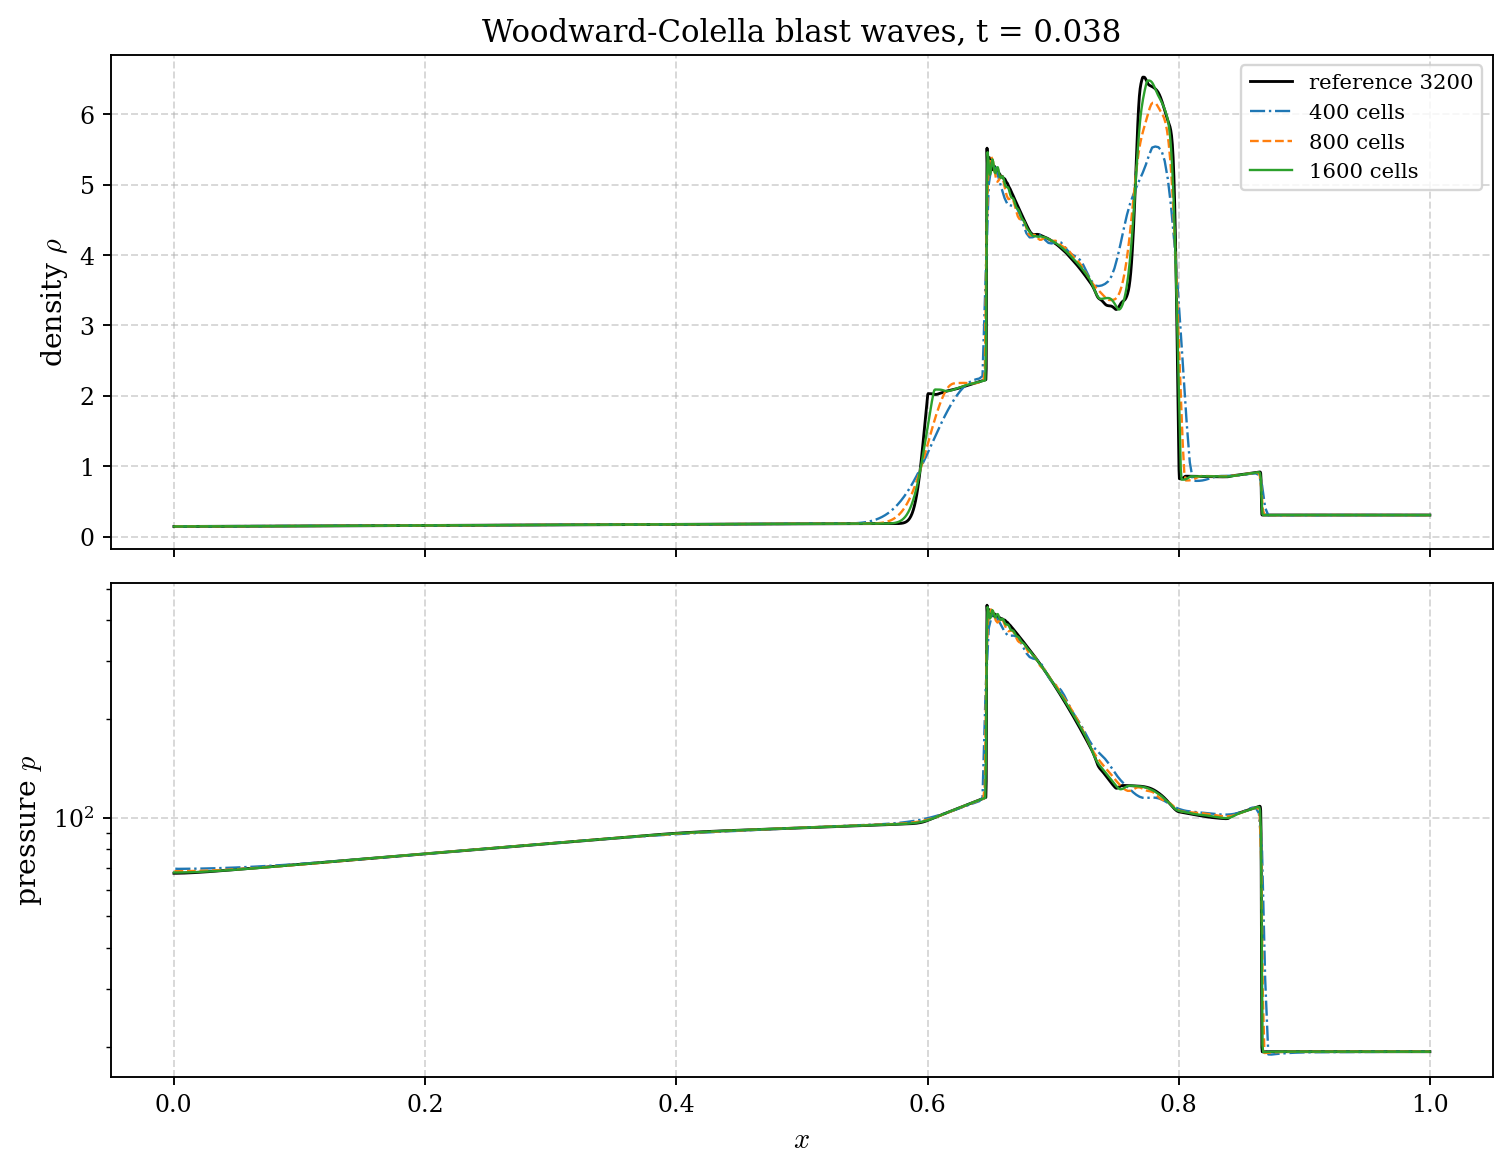
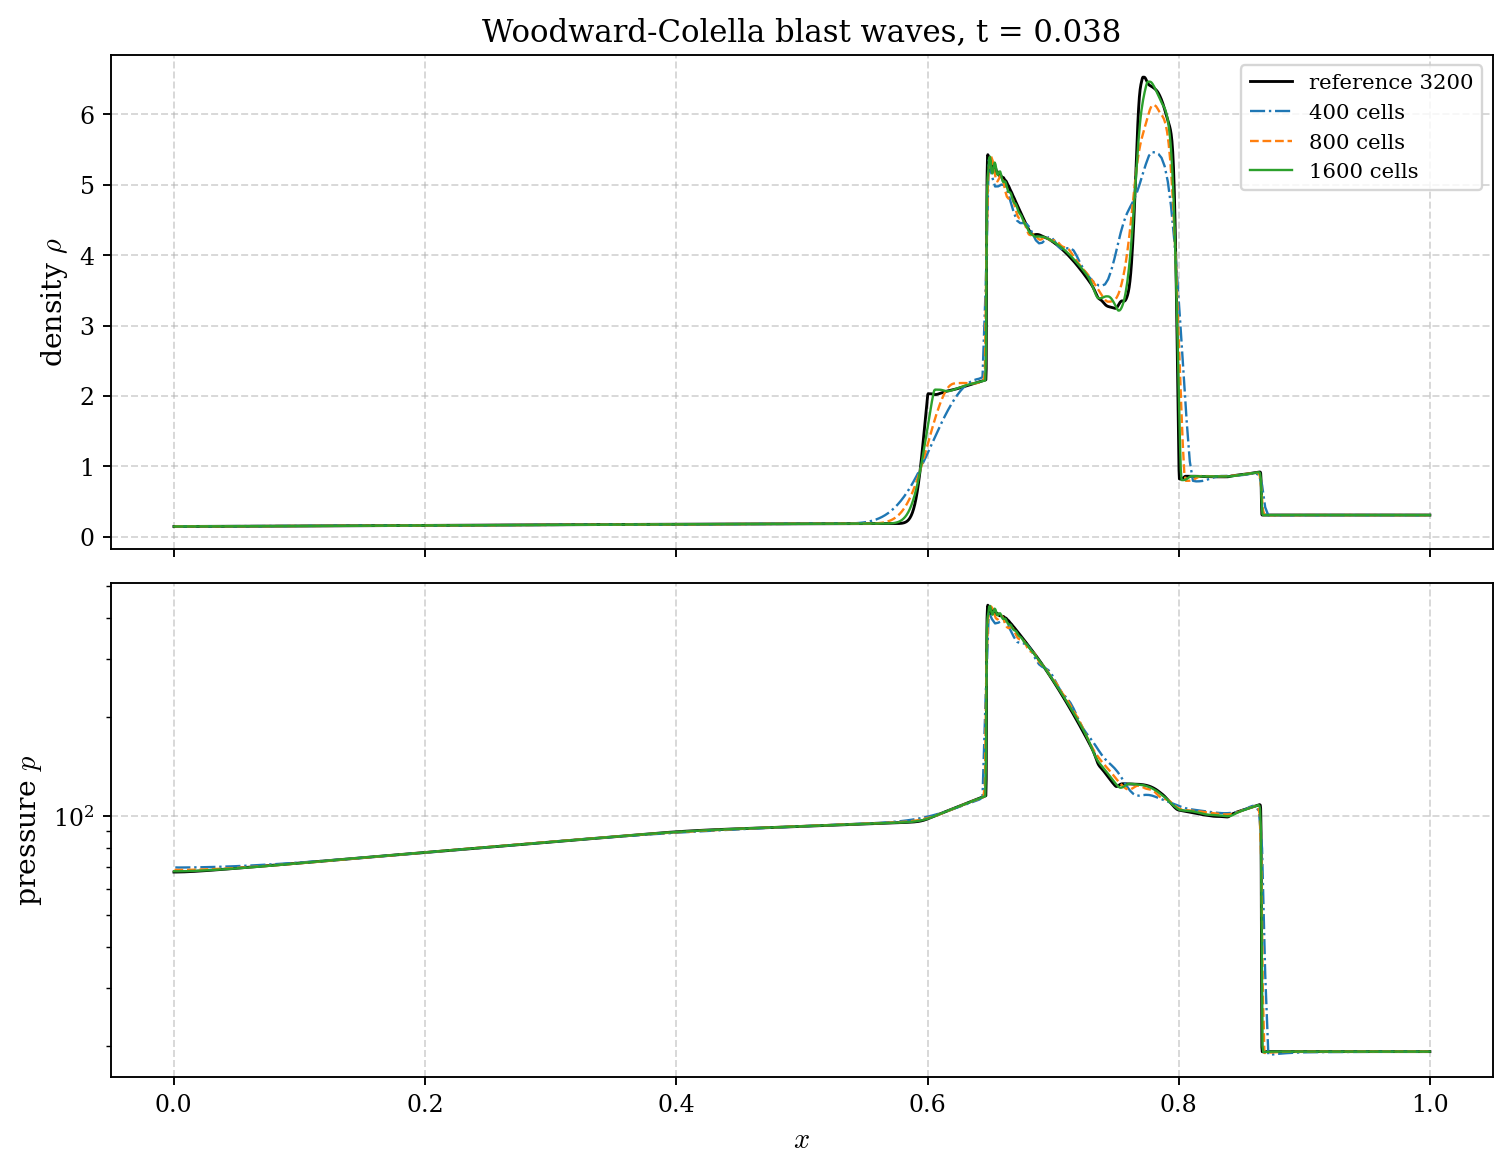
Blast waves page: numbers and figure from the run with shock_blend 0.2 (the default since 53a4f06) [skip ci]
L1 9.9e-2, 4.6e-2, 1.8e-2 (rates 1.1, 1.3); peak position 0.0070, 0.0077, 0.0048; the quantisation of the peak position stated.

diff --git a/docs/source/cases/blast-waves.md b/docs/source/cases/blast-waves.md
@@ -23,16 +23,18 @@ python cases\validation\verification\blast_waves.py      # 400, 800, 1600 cells 
 
 The bands are fixed in the script before the first run: mass and energy conserved to a relative $10^{-11}$ (walls on every
 side), $\rho, p > 0$, the L1 density difference to the reference decreasing with an observed rate of at least 0.4, and the
-position of the density maximum within 0.02 of the reference's and not moving away with refinement.
+position of the density maximum within 0.02 of the reference's and not moving away with refinement by more than a cell of
+the finer grid.
 
 <figure>
 <img src="{{root}}img/blast_waves.png" style="width:100%">
 <figcaption>Density and pressure at t = 0.038 on 400, 800 and 1600 cells and the 3200-cell reference. Conservation errors
-are 2-5e-16; the L1 density differences to the reference are 9.6e-2, 4.5e-2 and 1.8e-2 (observed rates 1.1 and 1.3).</figcaption>
+are 2-6e-16; the L1 density differences to the reference are 9.9e-2, 4.6e-2 and 1.8e-2 (observed rates 1.1 and 1.3).</figcaption>
 </figure>
 
-The density maximum is a spike of one or two cells: its position converges in physical distance (0.0095, 0.0077, 0.0036 from
-400 to 1600 cells), not in a fixed number of cells.
+The density maximum is a spike of one or two cells: its position converges in physical distance (0.0070, 0.0077, 0.0048 from
+400 to 1600 cells), not in a fixed number of cells, and it is quantised to the cell centres of each grid, so the difference
+may grow between two grids by up to a cell of the finer one (0.0007 against 0.00125 from 400 to 800).
 
 ## References
 
